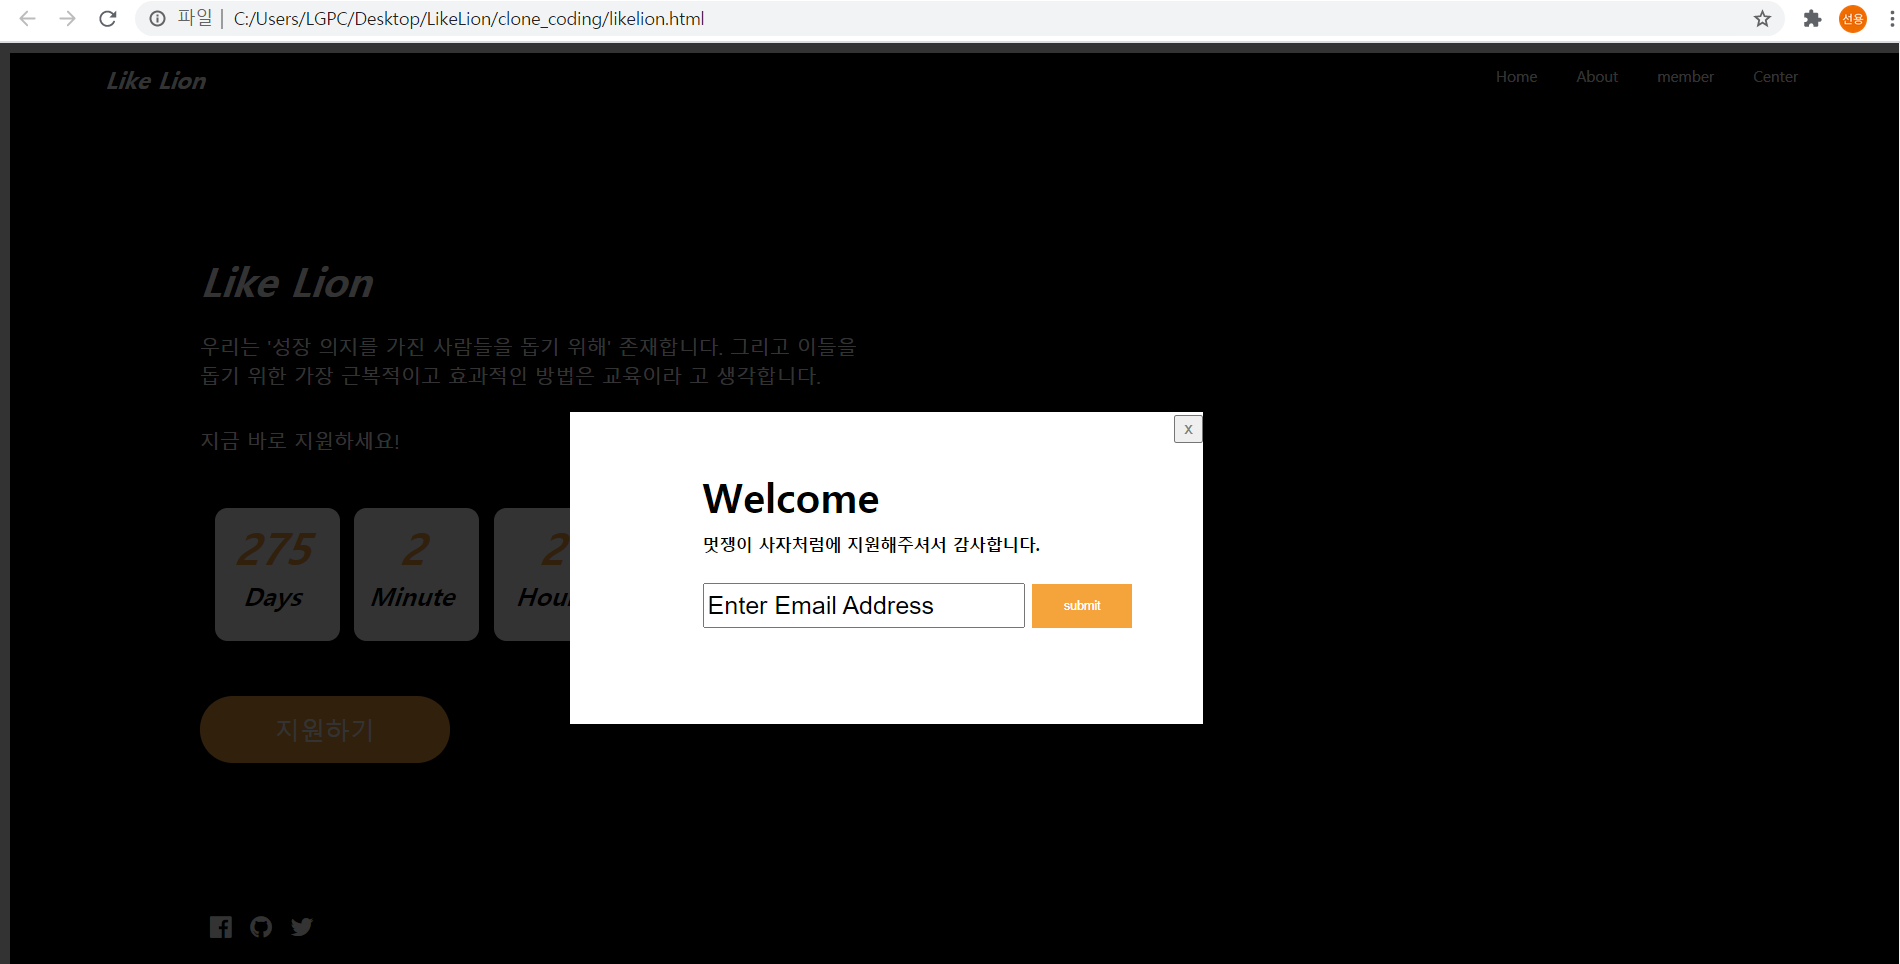
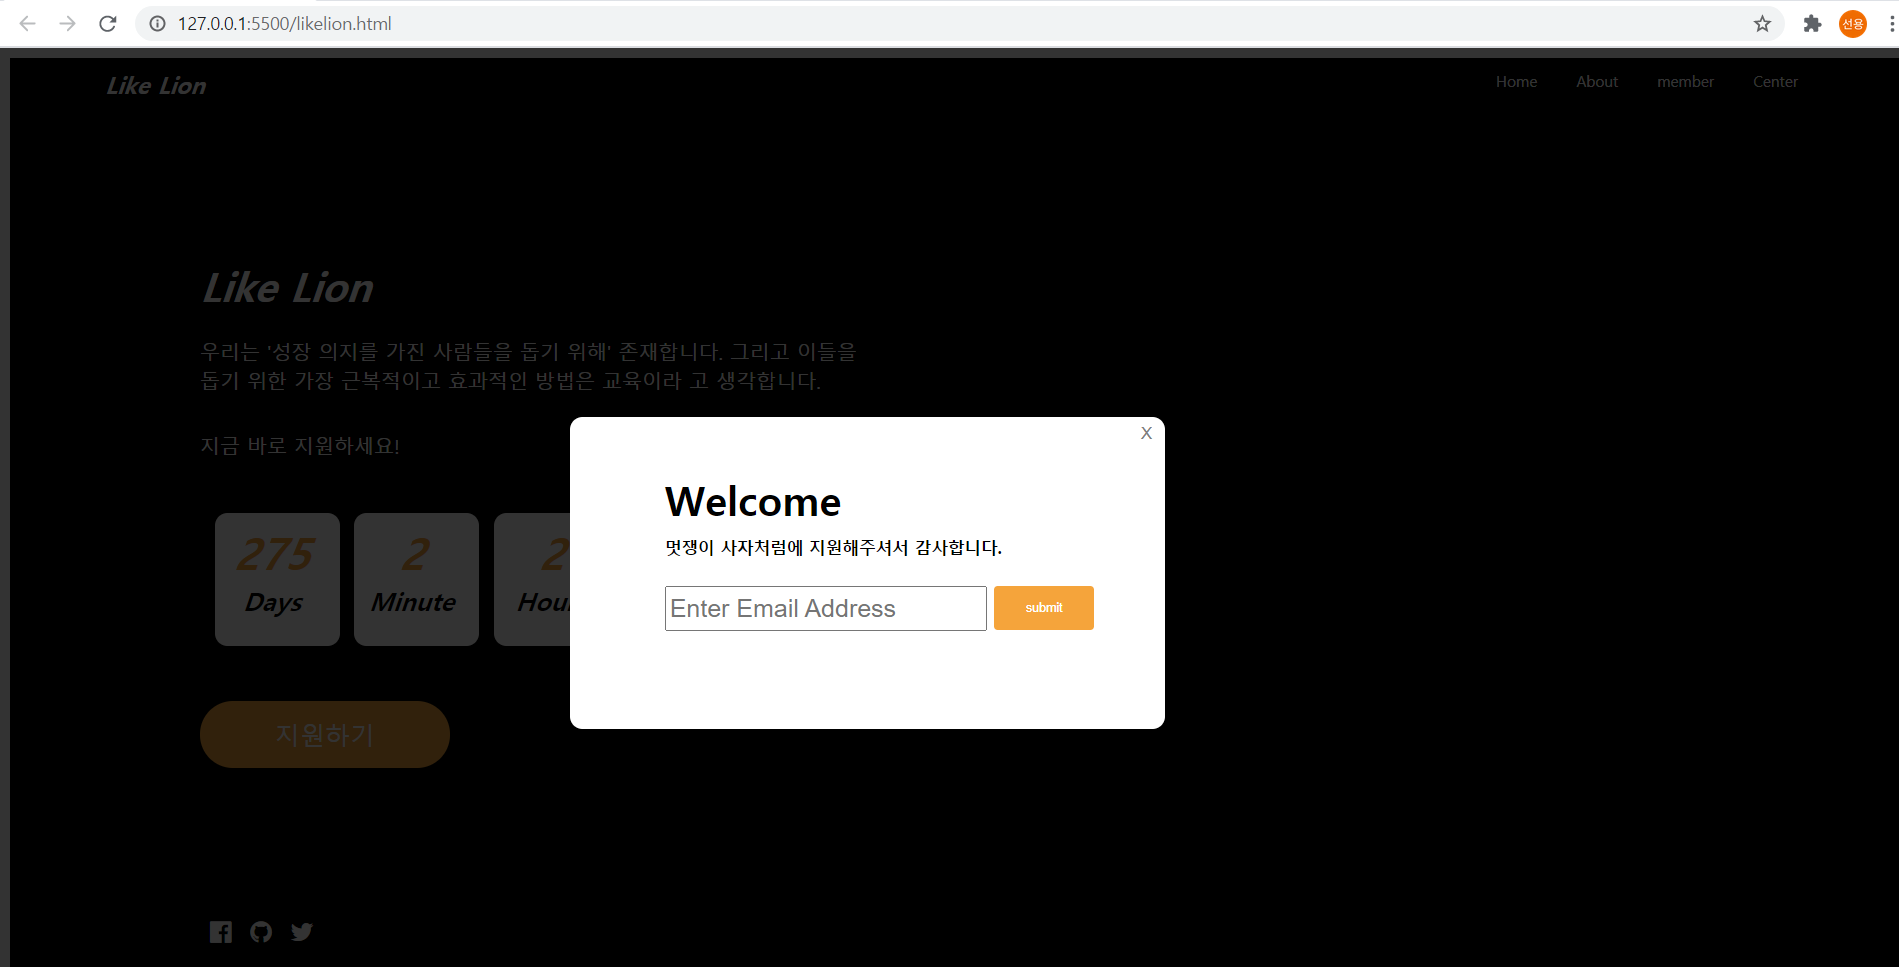
Apr_4days_3

diff --git a/likelion.html b/likelion.html
@@ -107,12 +107,12 @@
         <div id = "mask"></div>
         <div class="window">
             <div class = "div123">
-                <input type="button" href="#" class="close" value="x" style="color: gray;"/>
+                <input type="button" href="#" class="close" value="X" style="color: gray; border: none; background-color: white;"/>
             </div>
             <h1 style="margin-bottom: 0%;">Welcome</h1>
             <h5 style="margin-top: 2%;">멋쟁이 사자처럼에 지원해주셔서 감사합니다.</h5>
-            <input type="text" class="input1" value="Enter Email Address">
-            <input type="button" class="input2" value="submit">
+            <input type="input" class="input1" placeholder="Enter Email Address"> 
+            <input type="button" class="input2" value="submit" style="border-radius: 3px;">
         </div>
     </div>
 

diff --git a/likelion.css b/likelion.css
@@ -172,8 +172,10 @@ a{
     height: 250px;
     z-index:10000;
     background-color: white;
-    padding-left: 7%;
+    padding-left: 5%;
+    border-radius: 10px;
   }
   .div123{
       text-align: right;
+      padding-right: 1%;
   }
